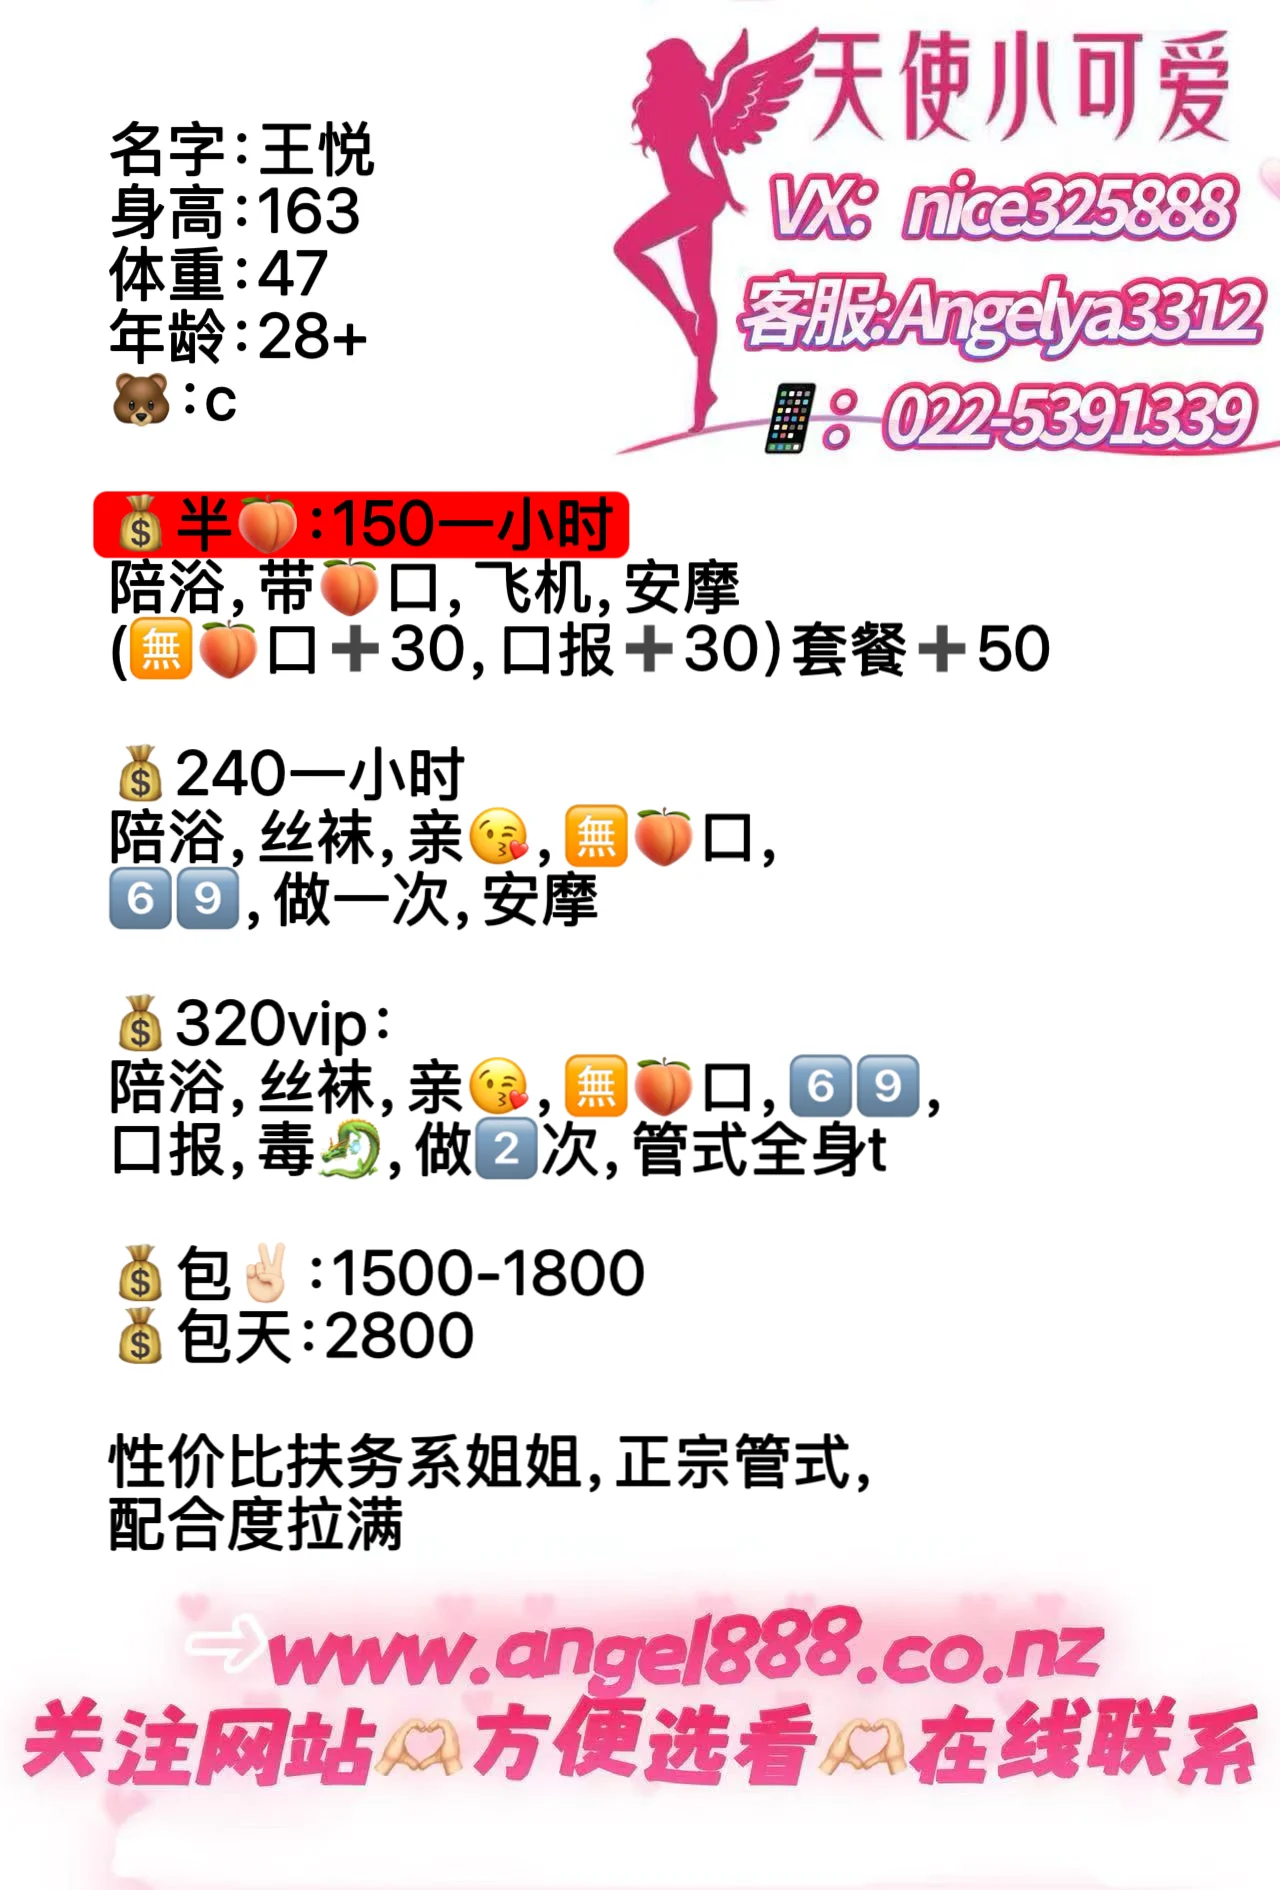
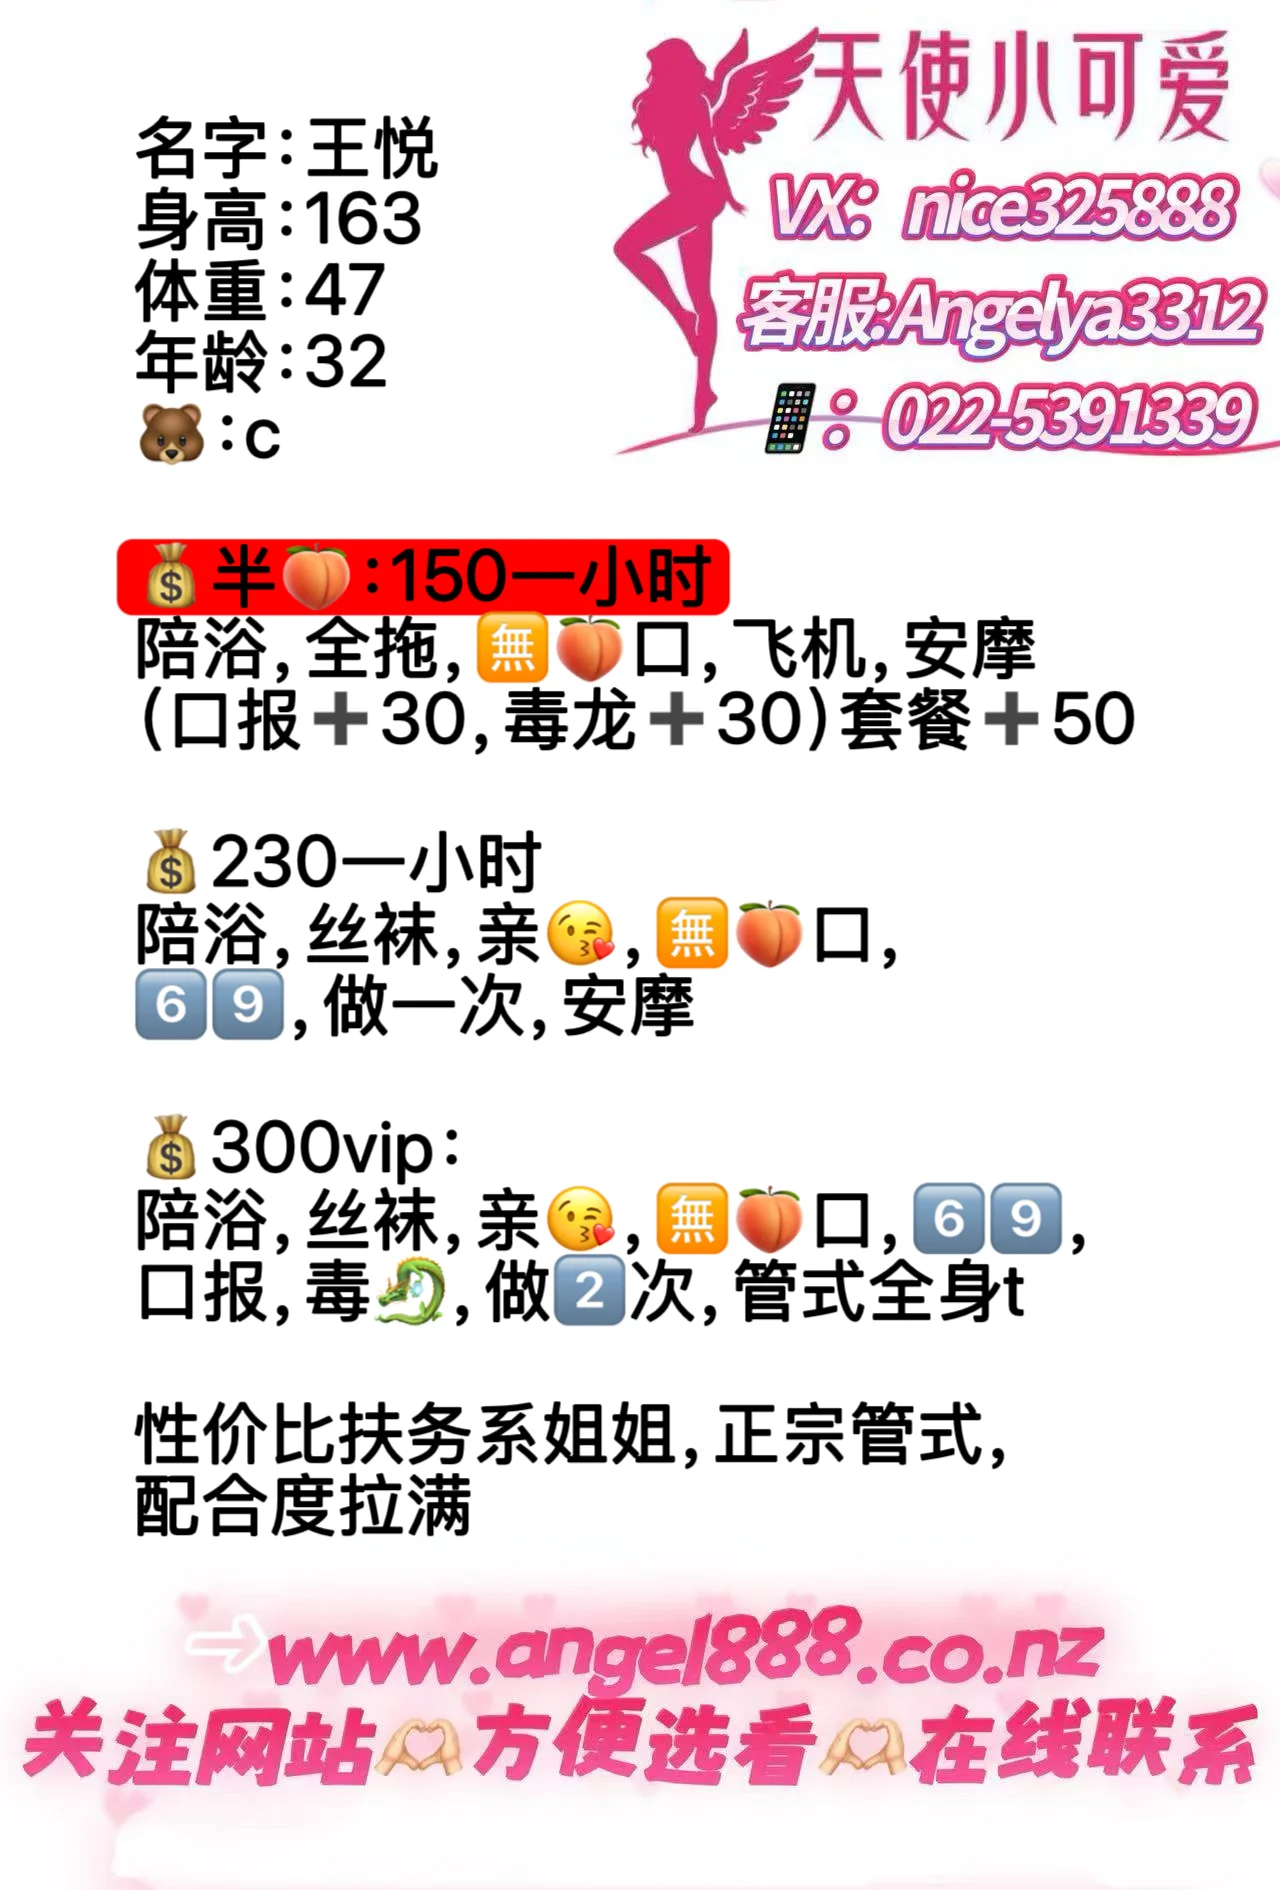
feat: update Wangyue (id: 115) data cards and profile info

Changed region(s): [[0.0625, 0.0624, 0.9062, 0.8429]]

diff --git a/src/lib/data.js b/src/lib/data.js
@@ -6,7 +6,7 @@ export const girls = [
     verified: true,
     location: "CBD",
     stats: {
-      age: "28+",
+      age: 32,
       height: "163cm",
       weight: "47kg",
       cup: "C",
@@ -15,24 +15,20 @@ export const girls = [
     image: "/images/girls/wangyue/cover.webp",
     video: "/images/girls/wangyue/video.mp4",
     description: {
-      en: "Attentive and highly experienced companion offering authentic Guan-style relaxation! Wangyue is now available in Auckland CBD. Standing at 163cm and 47kg with charming C cup curves, she is celebrated for her gentle maturity, warm hospitality, and exceptionally high cooperation. Offering half service massage ($150/1h), standard full companion service ($240/1h), and deluxe VIP package ($320/1h). Overnight ($1500~$1800) and all-day ($2800) reservations available.",
-      cn: "🆕高性价比正宗莞式服务姐姐！王悦（Wangyue）现已在市区 CBD 提供陪伴。身高 163cm，体重 47kg，身材匀称饱满，拥有丰满迷人的 C 罩杯。成熟温婉，服务配合度极高、耐心细致。特别提供半套/感官按摩（$150/1h）、标准全套（$240/1h）以及 VIP 尊享莞式全方位深度放松（$320/1h），另提供包夜（$1500~$1800）与包天（$2800）尊享相伴。",
+      en: "Attentive and highly experienced companion offering authentic Guan-style relaxation! Wangyue is now available in Auckland CBD. Standing at 163cm and 47kg with charming C cup curves, she is celebrated for her gentle maturity, warm hospitality, and exceptionally high cooperation. Offering half service massage ($150/1h), standard full companion service ($230/1h), and deluxe VIP package ($300/1h).",
+      cn: "高性价比正宗莞式服务姐姐！王悦（Wangyue）现已在市区 CBD 提供陪伴。身高 163cm，体重 47kg，身材匀称饱满，拥有丰满迷人的 C 罩杯。成熟温婉，服务配合度极高、耐心细致。特别提供半套/感官按摩（$150/1h）、标准全套（$230/1h）以及 VIP 尊享莞式全方位深度放松（$300/1h）。",
     },
-    price: "$240 / 1h · $150 / 1h (Half) · $320 / 1h (VIP)",
+    price: "$230 / 1h · $150 / 1h (Half) · $300 / 1h (VIP)",
     services: {
       en: [
-        "Sensual massage / Half service ($150/1h): Shower, kiss, massage, protected oral; natural oral (+$30), oral finish (+$30), package upgrade (+$50)",
-        "Standard Full Service ($240/1h): Shower together, kiss, natural oral, stockings, 69 interaction, 1 round, soothing massage",
-        "VIP Deluxe Upgrade ($320/1h): Shower, stockings, kiss, natural oral, 69, oral finish, rimming, 2 rounds, Guan-style full body massage",
-        "Overnight stay: $1500 ~ $1800",
-        "All day: $2800",
+        "Sensual massage / Half service ($150/1h): Shower together, nuru massage, natural BJ, hand BJ; rimming (+$30), oral finish (+$30), combo upgrade (+$50)",
+        "Standard Full Service ($230/1h): Shower together, kiss, natural BJ, stockings, 69 interaction, 1 round, soothing massage",
+        "VIP Deluxe Upgrade ($300/1h): Shower, stockings, kiss, natural BJ, 69, oral finish, rimming, 2 rounds, Guan-style full body massage",
       ],
       cn: [
-        "半套/感官按摩 ($150/1h)：双人陪浴、温情亲吻、手法按摩、带套口吹；无套口吹 (+$30)、口爆 (+$30)、套餐组合升级 (+$50)",
-        "标准全套 ($240/1h)：双人陪浴、温情亲吻、无套口吹、性感丝袜、69互动、做1次、舒缓按摩",
-        "VIP尊享升级 ($320/1h)：双人陪浴、性感丝袜、温情亲吻、无套口吹、69互动、口爆、毒龙、做2次、正宗莞式全身漫游",
-        "包夜：$1500 ~ $1800",
-        "包天：$2800",
+        "半套/感官按摩 ($150/1h)：双人陪浴、手法按摩、无套口吹、飞机；毒龙 (+$30)、口爆 (+$30)、套餐组合升级 (+$50)",
+        "标准全套 ($230/1h)：双人陪浴、温情亲吻、无套口吹、性感丝袜、69互动、做1次、舒缓按摩",
+        "VIP尊享升级 ($300/1h)：双人陪浴、性感丝袜、温情亲吻、无套口吹、69互动、口爆、毒龙、做2次、正宗莞式全身漫游",
       ],
     },
     gallery: [
